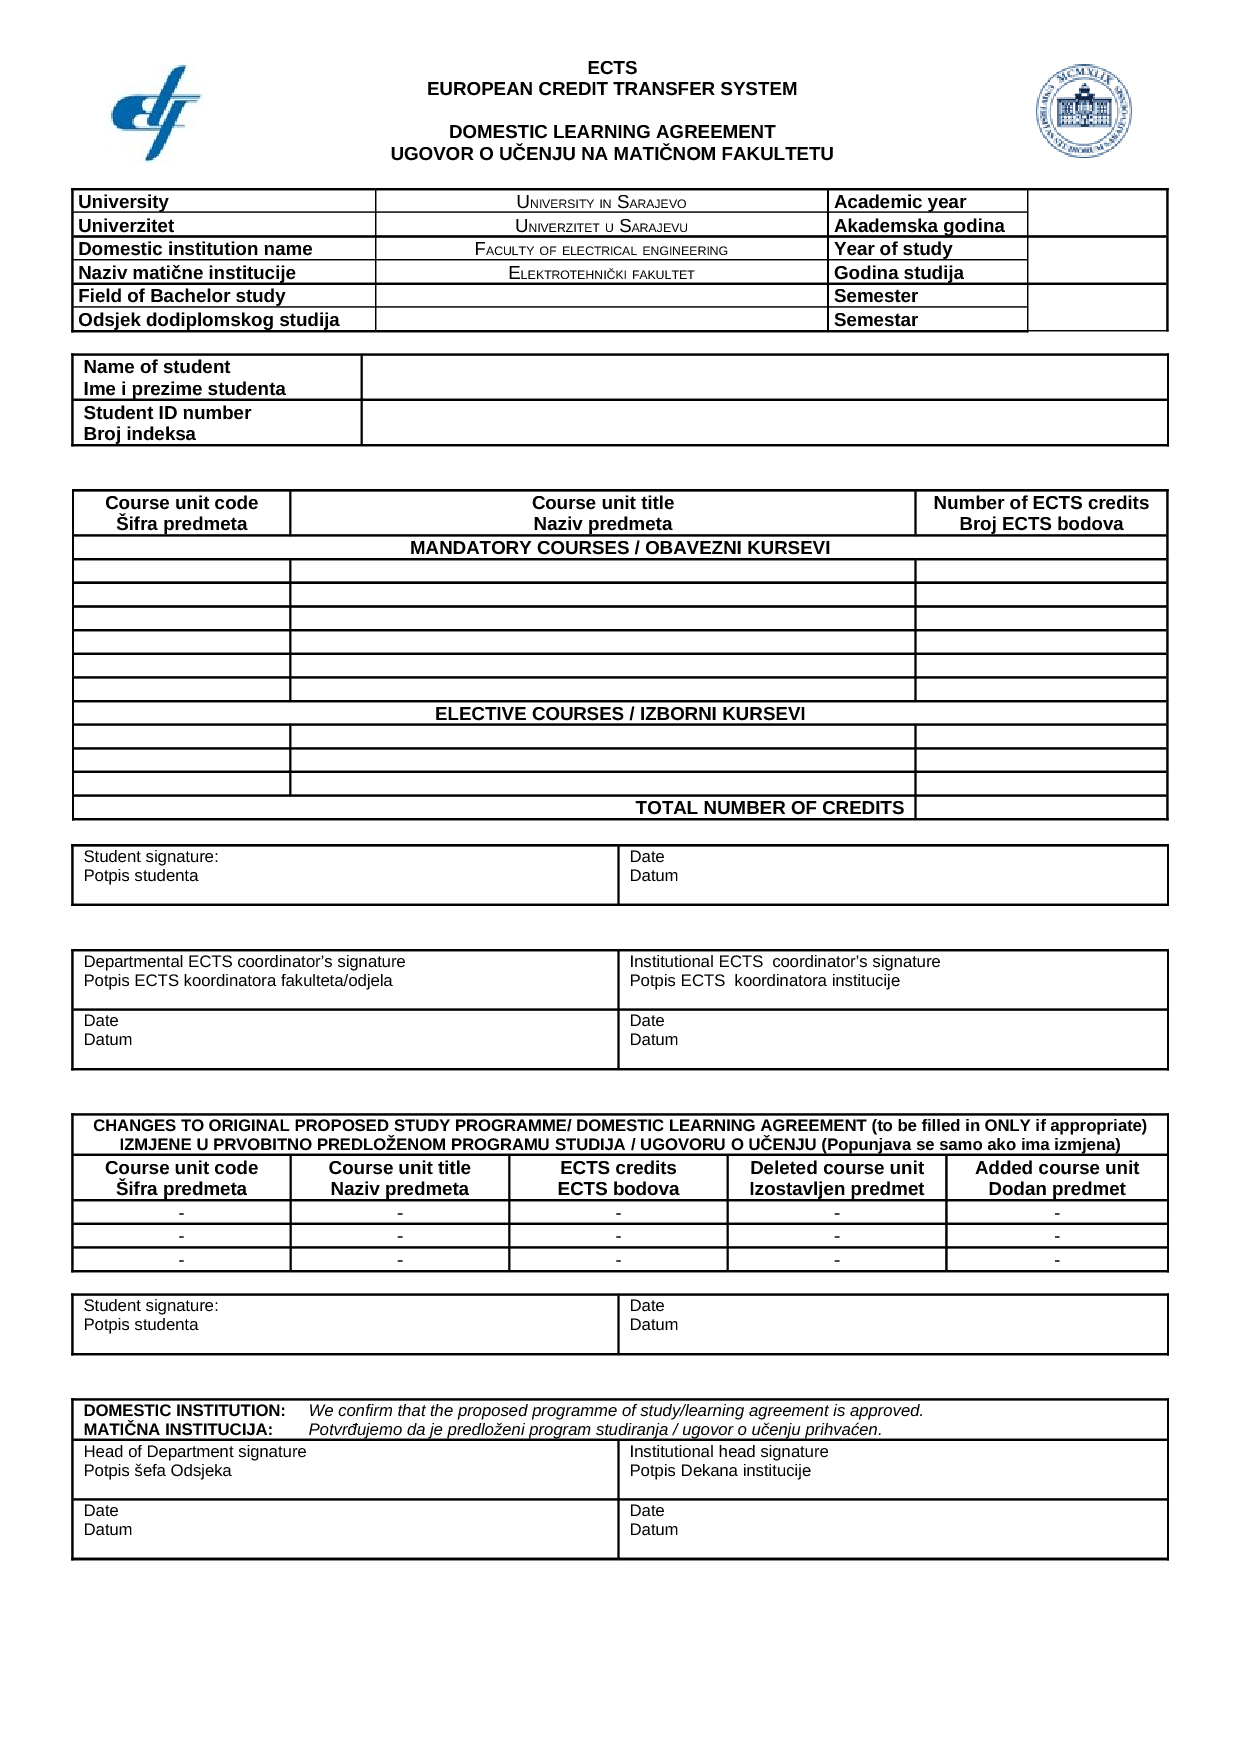
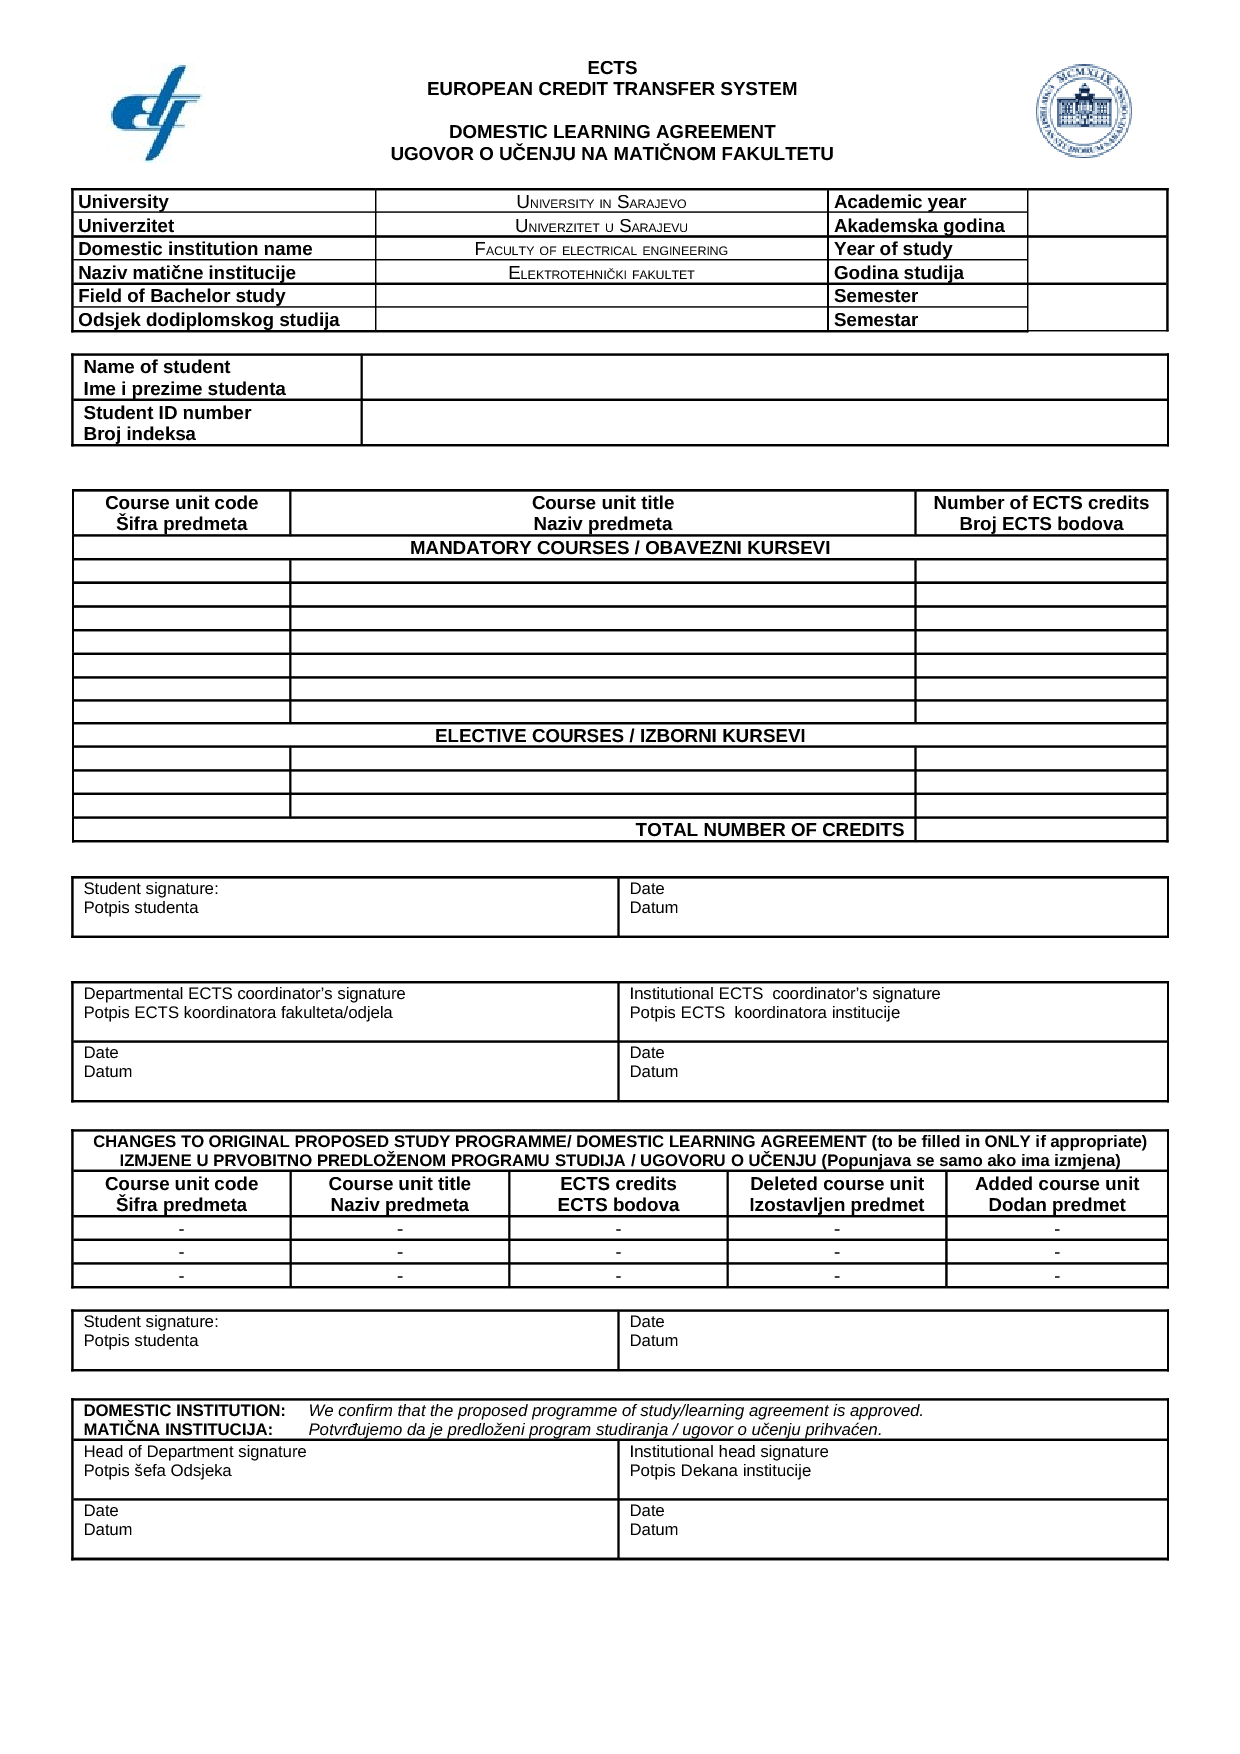
student/ugovoroucenjupdf: Dodajem još jedno mjesto za obavezne predmete jer student može prenijeti dva predmeta

Changed region(s): [[0.0613, 0.4002, 0.95, 0.8005]]

diff --git a/student/ugovoroucenjupdf.php b/student/ugovoroucenjupdf.php
@@ -292,7 +292,7 @@ $pdf->AddPage();
 	}
 
 	// Spisak izbornih predmeta
-	$ykoord = 123;
+	$ykoord = 127;
 	foreach($neparni_izborni as $predmet) {
 		$pdf->SetXY(13, $ykoord);
 		$pdf->Cell(100, 0, $predmet['sifra']);
@@ -308,7 +308,7 @@ $pdf->AddPage();
 
 	// Suma ects
 	if (!strchr($ects,".")) $ects .= ".0";
-	$pdf->SetXY(170, 135);
+	$pdf->SetXY(170, 139);
 	$pdf->Cell(100, 0, $ects);
 
 	// Kod
@@ -353,7 +353,7 @@ $pdf->AddPage();
 	}
 
 	// Spisak izbornih predmeta
-	$ykoord = 123;
+	$ykoord = 127;
 	foreach($parni_izborni as $predmet) {
 		$pdf->SetXY(13, $ykoord);
 		$pdf->Cell(100, 0, $predmet['sifra']);
@@ -369,7 +369,7 @@ $pdf->AddPage();
 
 	// Suma ects
 	if (!strchr($ects,".")) $ects .= ".0";
-	$pdf->SetXY(170, 135);
+	$pdf->SetXY(170, 139);
 	$pdf->Cell(100, 0, $ects);
 
 	// Kod
